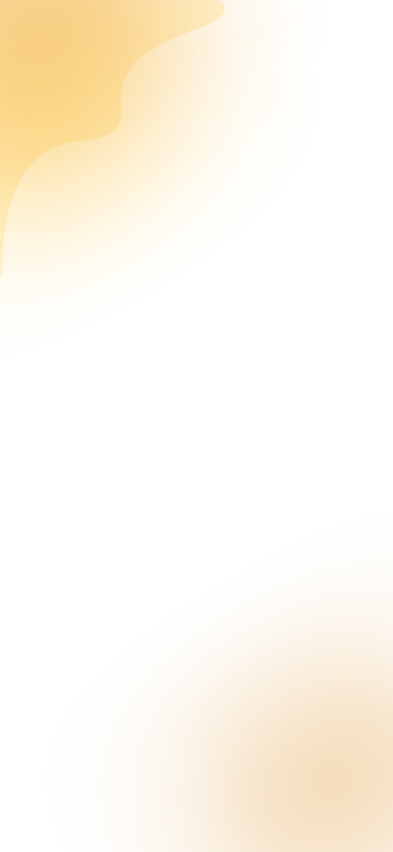
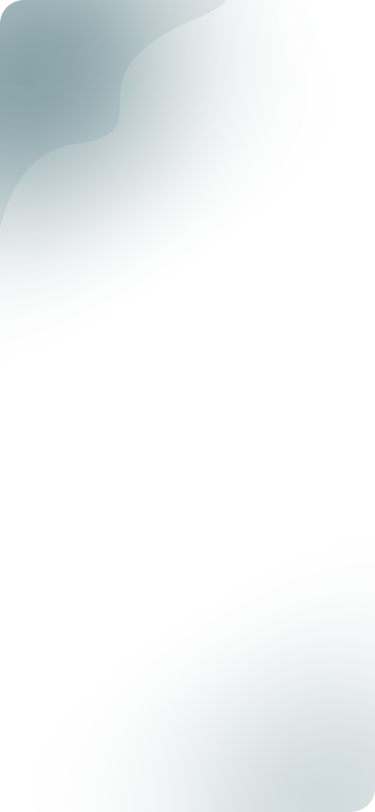
change ui colors

Changed region(s): [[0.0, 0.0, 0.5867, 0.3387], [0.5867, 0.7697, 1.0, 1.0]]

diff --git a/lib/app.dart b/lib/app.dart
@@ -4,7 +4,6 @@ import 'core/all_imports.dart';
 import 'core/go_router.dart';
 import 'features/language/bloc/language_cubit.dart';
 import 'package:country_picker/country_picker.dart';
-import 'package:flutter/material.dart';
 import 'l10n/app_localizations.dart';
 
 class GlobalVariable {
@@ -34,9 +33,9 @@ class MubinOrdersApp extends StatelessWidget {
           return ModeTheme(
             lightColorScheme: const ColorScheme.light(
               primary: Color.fromRGBO(
-                239,
-                167,
-                53,
+                0,
+                58,
+                69,
                 1,
               ),
               onPrimary: Colors.white,
@@ -142,7 +141,7 @@ class MubinOrdersApp extends StatelessWidget {
                   GlobalWidgetsLocalizations.delegate,
                   GlobalCupertinoLocalizations.delegate,
                 ],
-                supportedLocales: AppLocalizations.supportedLocales,
+                // supportedLocales: AppLocalizations.supportedLocales,
                 routerConfig: router,
               );
             },

diff --git a/lib/core/go_router.dart b/lib/core/go_router.dart
@@ -1,6 +1,7 @@
 // import 'package:piopiopizza/screens/main/settings/productivity/provider/ roduction_provider.dart';
 import 'package:flutter/material.dart';
 import 'package:go_router/go_router.dart';
+import '../SignInUi.dart';
 import '../app.dart';
 import '../features/home/home_view.dart';
 import '../features/main_view.dart';
@@ -8,7 +9,7 @@ import '../features/orders/present/views/orders_view.dart';
 import '../onboarding_view.dart';
 
 final GoRouter router = GoRouter(
-  initialLocation: "/${OrdersView.routeName}",
+  initialLocation: "/${SignInView.routeName}",
   navigatorKey: GlobalVariable.navState,
   routes: [
     goRoute(
@@ -19,6 +20,12 @@ final GoRouter router = GoRouter(
       path: MainView.routeName,
       builder: (context, state) {
         return const MainView();
+      },
+    ),
+    goRoute(
+      path: SignInView.routeName,
+      builder: (context, state) {
+        return const SignInView();
       },
     ),
     goRoute(

diff --git a/lib/features/docs/present/views/widgets/video_widget.dart b/lib/features/docs/present/views/widgets/video_widget.dart
@@ -9,10 +9,10 @@ class VideoWidget extends StatefulWidget {
   final String thumbnailUrl; // ✅ thumbnail
 
   const VideoWidget({
-    Key? key,
+    super.key,
     required this.videoUrl,
     required this.thumbnailUrl,
-  }) : super(key: key);
+  });
 
   @override
   _VideoWidgetState createState() => _VideoWidgetState();
@@ -21,7 +21,7 @@ class VideoWidget extends StatefulWidget {
 class _VideoWidgetState extends State<VideoWidget> {
   late VideoPlayerController _controller;
   bool _isError = false;
-  bool _isPlaying = false;
+  final bool _isPlaying = false;
 
   @override
   void initState() {

diff --git a/lib/main.dart b/lib/main.dart
@@ -15,7 +15,6 @@ import 'features/language/bloc/language_cubit.dart';
 import 'features/docs/present/blocs/bloc/docs_bloc.dart';
 import 'features/orders/present/bloc/orders_bloc.dart';
 import 'firebase_options.dart';
-import 'package:flutter/material.dart';
 
 Future<void> main() async {
   WidgetsFlutterBinding.ensureInitialized();
@@ -49,7 +48,7 @@ Future<void> main() async {
   }
   runApp(
     MultiBlocProvider(
-      providers: [  
+      providers: [
         BlocProvider(
           create: (context) => getIt<MainBloc>(),
         ),

diff --git a/lib/core/helper_functions/on_generate_routes.dart b/lib/core/helper_functions/on_generate_routes.dart
@@ -1,10 +1,8 @@
 import 'package:flutter/material.dart';
 import 'package:mubin_orders/features/home/home_view.dart';
-import 'package:sign_in/sign_in.dart';
 import '../../SignInUi.dart';
 import '../../features/docs/present/views/widgets/image_preview.dart';
 import '../../features/orders/present/views/orders_view.dart';
-import '../../l10n/app_localizations.dart';
 import '../gloabal_widgets/video_player.dart';
 
 Route<dynamic> onGenerateRoute(RouteSettings settings) {

diff --git a/lib/features/docs/present/blocs/bloc/docs_bloc.dart b/lib/features/docs/present/blocs/bloc/docs_bloc.dart
@@ -112,7 +112,7 @@ class DocsBloc extends Bloc<DocsEvent, DocsState> {
                 }
               }
               print(
-                  'https://www.google.com/maps/search/?api=1&query=${_latitude},${_longitude}');
+                  'https://www.google.com/maps/search/?api=1&query=$_latitude,$_longitude');
               final id = _orderId?.value;
               _orderDocStatus[id] =
                   (status: DocUploadStatus.uploading, progress: "0%");

diff --git a/lib/features/drawer/my_drawer.dart b/lib/features/drawer/my_drawer.dart
@@ -85,7 +85,7 @@ class MyDrawer extends StatelessWidget {
                                       ),
                                     ),
                                   ),
-                                  Container(
+                                  SizedBox(
                                     height: 40,
                                     width: 1,
                                   ),

diff --git a/lib/features/orders/present/views/widgets/video_widget.dart b/lib/features/orders/present/views/widgets/video_widget.dart
@@ -4,7 +4,7 @@ import 'package:video_player/video_player.dart';
 class VideoWidget extends StatefulWidget {
   final String videoUrl;
 
-  const VideoWidget({Key? key, required this.videoUrl}) : super(key: key);
+  const VideoWidget({super.key, required this.videoUrl});
 
   @override
   _VideoWidgetState createState() => _VideoWidgetState();

diff --git a/lib/features/home/home_view.dart b/lib/features/home/home_view.dart
@@ -2,7 +2,6 @@ import 'package:mubin_orders/core/all_imports.dart';
 import '../../core/widgets/custom_app_bar.dart';
 import '../../l10n/app_localizations.dart';
 import '../orders/present/views/orders_view.dart';
-import '../drawer/my_drawer.dart';
 
 class HomeView extends StatefulWidget {
   const HomeView({

diff --git a/lib/core/utils/responsive.dart b/lib/core/utils/responsive.dart
@@ -8,11 +8,11 @@ class Res extends StatelessWidget {
   final Widget? desktop;
 
   const Res({
-    Key? key,
+    super.key,
     this.mobile,
     this.tablet,
     this.desktop,
-  }) : super(key: key);
+  });
 
 // This size work fine on my design, maybe you need some customization depends on your design
 

diff --git a/lib/core/widgets/custom_password_field.dart b/lib/core/widgets/custom_password_field.dart
@@ -1,7 +1,5 @@
 import 'package:flutter/material.dart';
 import '../../../core/widgets/custom_password_form_field.dart';
-import '../utils/app_colors.dart';
-import '../utils/app_text_styles.dart';
 
 class CustomPasswordField extends StatelessWidget {
   CustomPasswordField({

diff --git a/lib/features/docs/present/views/docs_view.dart b/lib/features/docs/present/views/docs_view.dart
@@ -1,5 +1,4 @@
 import '../../../../core/all_imports.dart';
-import '../../../../core/utils/app_text_styles.dart';
 import '../../../../core/widgets/app_container.dart';
 import '../../../../core/widgets/custom_app_bar.dart';
 import '../../../../l10n/app_localizations.dart';
